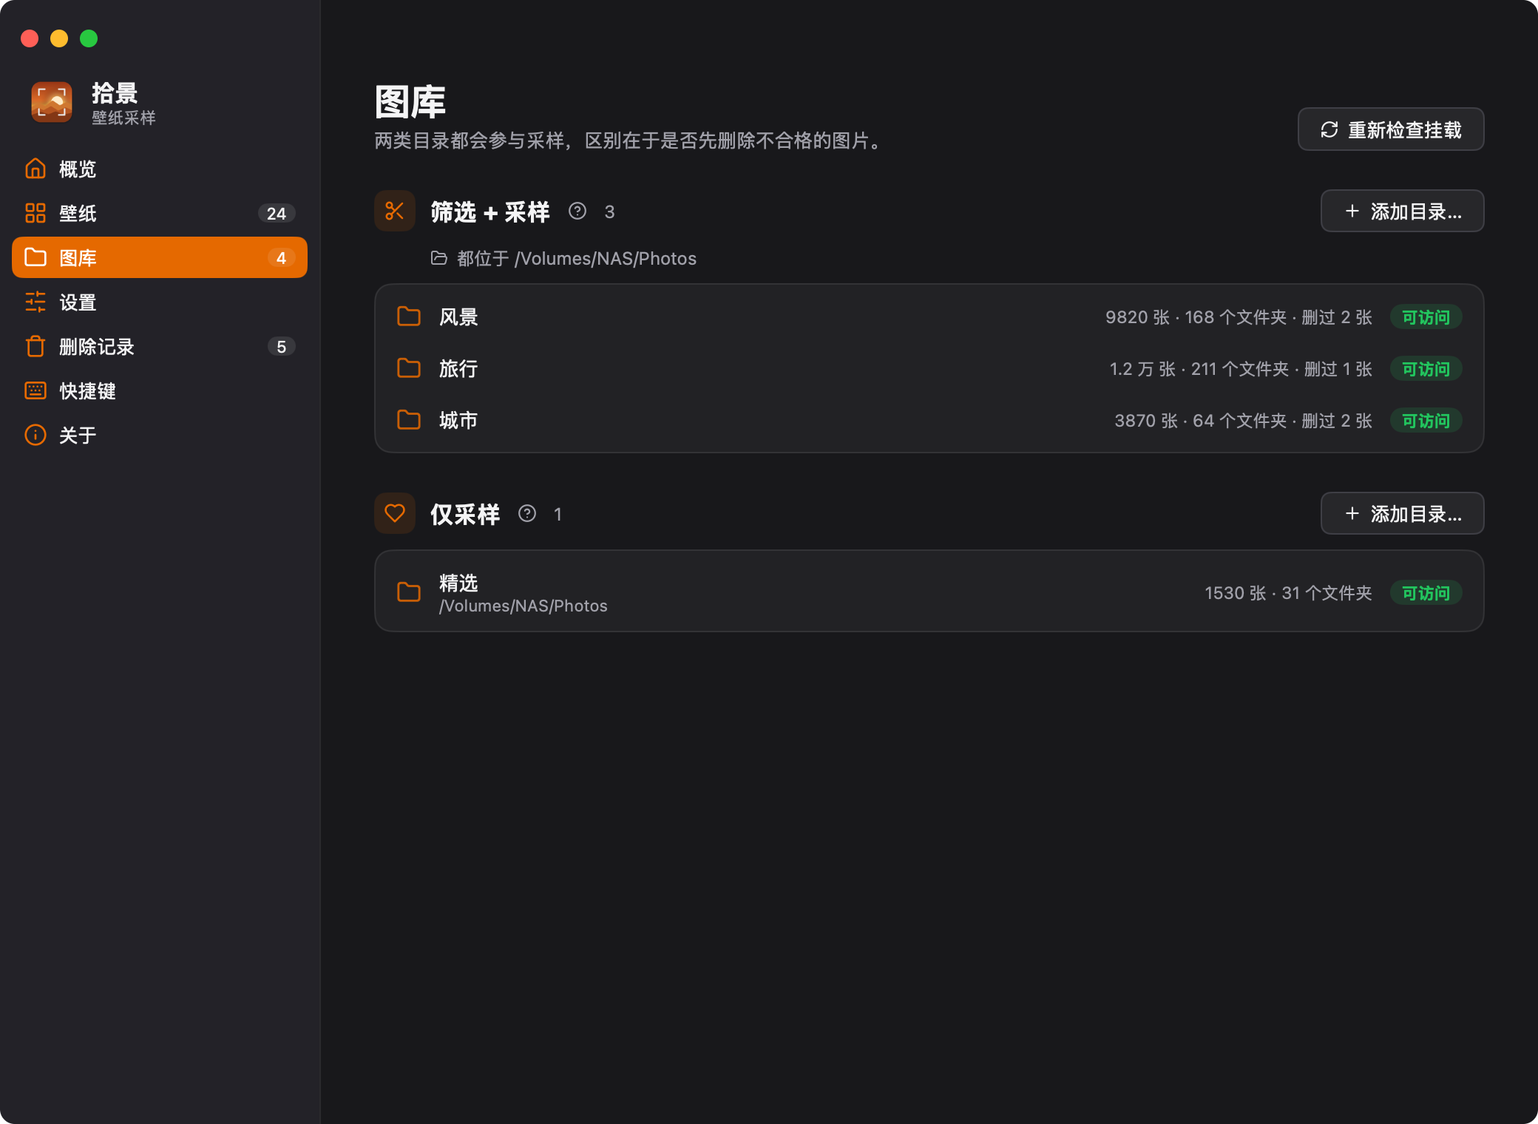
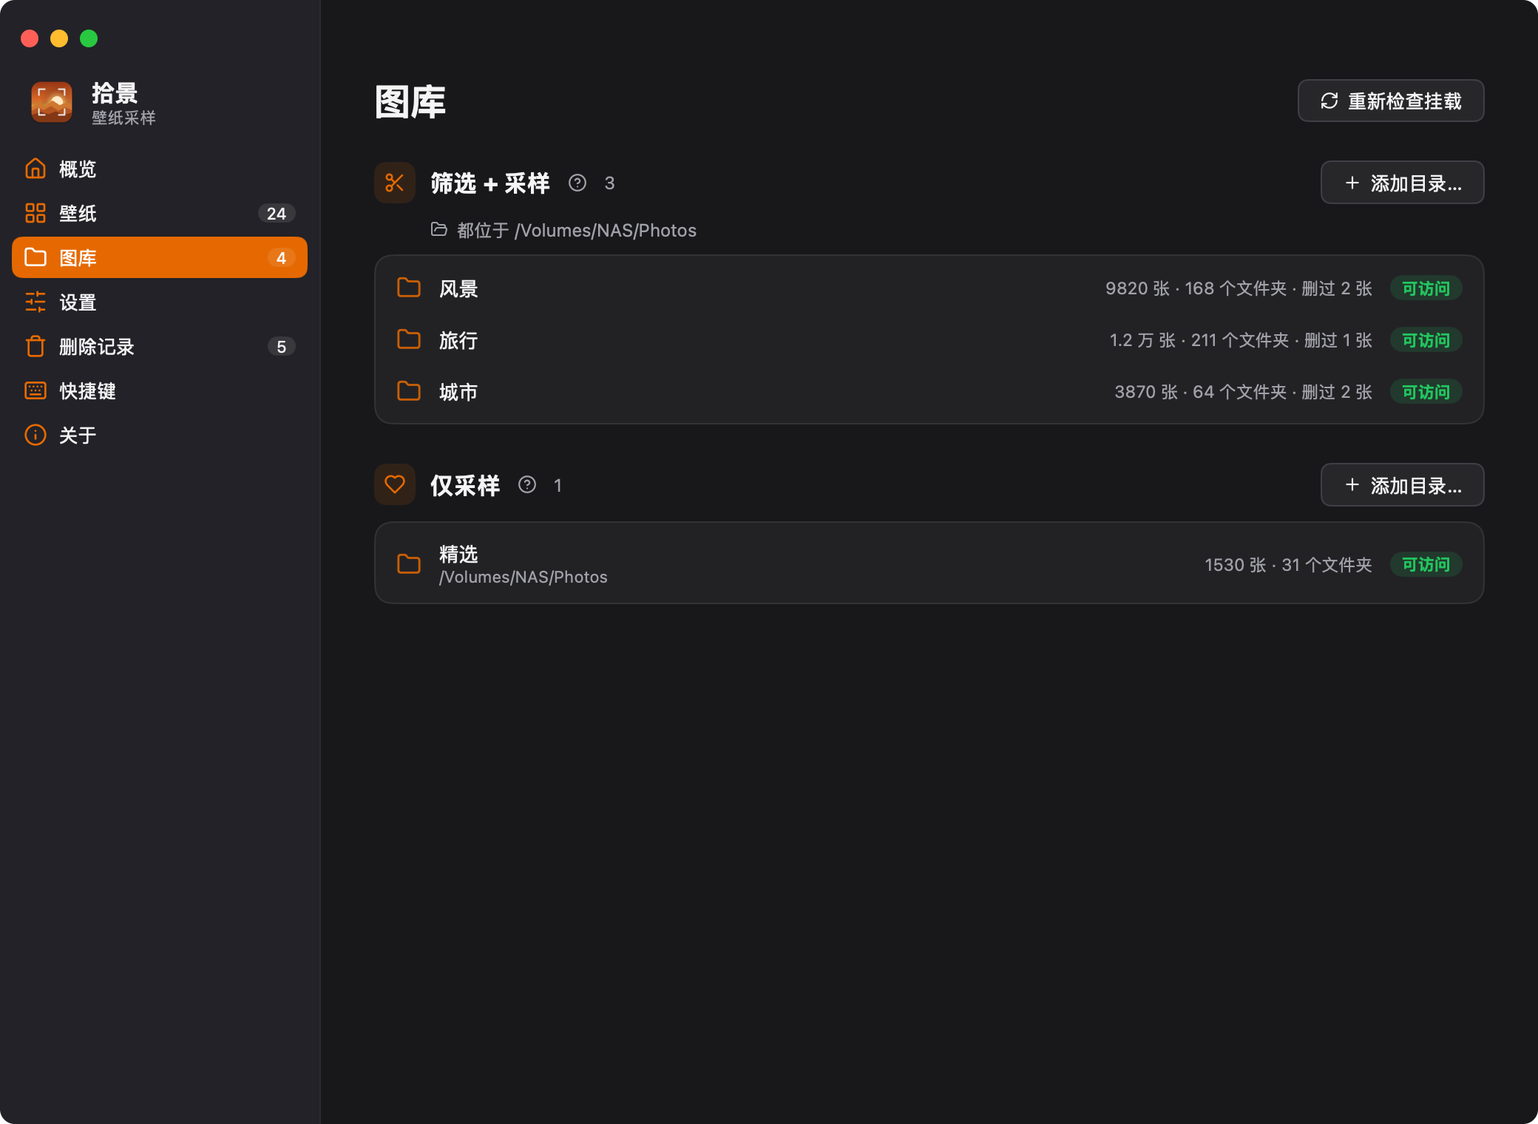
feat(拾景): 说明收得更干净（切页收起气泡、重复说明收进问号）

diff --git a/ios/ShiJing/SettingsSection.swift b/ios/ShiJing/SettingsSection.swift
@@ -32,9 +32,7 @@ struct HelpHeader: View {
     var body: some View {
         HStack(spacing: 6) {
             Text(title)
-            Image(systemName: "questionmark.circle")
-                .font(.footnote)
-                .foregroundStyle(.secondary)
+            HelpIcon()
         }
         // 整行都能点：问号只有十几 pt，单点图标不好按中
         .contentShape(Rectangle())
@@ -43,12 +41,28 @@ struct HelpHeader: View {
         .accessibilityLabel("\(title)，点按查看说明")
         .accessibilityAddTraits(.isButton)
         .accessibilityAction { open = true }
-        .popover(isPresented: $open) {
-            Text(help)
+        .helpPopover(isPresented: $open, text: help)
+    }
+}
+
+/// 小问号图标：跟随分组标题的次要颜色，别用按钮的橙色。
+struct HelpIcon: View {
+    var body: some View {
+        Image(systemName: "questionmark.circle")
+            .font(.footnote)
+            .foregroundStyle(.secondary)
+    }
+}
+
+extension View {
+    /// 说明气泡：宽固定 280，文字按行数撑高（只给 maxWidth 会被截成两行）。
+    /// 不指定 arrowEdge，让系统自己找放得下的方向：长说明从屏幕下方的行打开时往上展开。
+    func helpPopover(isPresented: Binding<Bool>, text: String) -> some View {
+        popover(isPresented: isPresented) {
+            Text(text)
                 .font(.subheadline)
                 .fixedSize(horizontal: false, vertical: true)
                 .padding(16)
-                // 给定宽度，文字才能在气泡里正常换行、按行数撑高（只给 maxWidth 时会被截成两行）
                 .frame(width: 280, alignment: .leading)
                 .presentationCompactAdaptation(.popover)
         }

diff --git a/ios/ShiJing/MacListView.swift b/ios/ShiJing/MacListView.swift
@@ -32,6 +32,10 @@ struct SetupView: View {
         .onAppear {
             discovery.want("setup", true)
             #if DEBUG
+            if ProcessInfo.processInfo.arguments.contains("-demoPair") {
+                flow.pairing = PairTarget(name: "MacBook Pro", serviceName: nil,
+                                          address: MacAddress(host: "192.168.1.20", port: 52819))
+            }
             if !demoScanOpened, ProcessInfo.processInfo.arguments.contains("-demoScan") {
                 demoScanOpened = true
                 // 等局域网搜索结果出来再打开：模拟「已经看到 Mac 列表后再点扫码」的时序
@@ -229,12 +233,11 @@ struct NearbySection: View {
             Button("扫描电脑上的二维码…", systemImage: "qrcode.viewfinder") { flow.scanning = true }
             Button("手动输入地址…", systemImage: "keyboard") { flow.manual = true }
         } header: {
-            Text("附近的 Mac")
+            HelpHeader("附近的 Mac", "电脑上的拾景要打开「设置 › 手机遥控」，手机和电脑连同一个网络。找不到时可以在电脑上点「显示二维码」，用手机扫码配对。")
         } footer: {
+            // 只有搜索出问题时才占一行；上面那段怎么连的说明收进了问号
             if let p = discovery.problem {
                 Text(p)
-            } else {
-                Text("电脑上的拾景要打开「设置 › 手机遥控」，手机和电脑连同一个网络。找不到时可以在电脑上点「显示二维码」，用手机扫码配对。")
             }
         }
     }

diff --git a/ios/ShiJing/PairView.swift b/ios/ShiJing/PairView.swift
@@ -61,10 +61,16 @@ struct PairView: View {
             Form {
                 Section {
                     LabeledContent("Mac", value: target.name)
-                    TextField("设备名称", text: $device)
-                        .disabled(requested)
-                } footer: {
-                    Text("系统不向 App 提供设备名称，默认只有「iPhone」。可以改成自己的名字，会记住。这个名字显示在电脑的「设置 › 手机遥控」里，也可以在电脑上重命名。")
+                }
+                Section {
+                    LabeledContent("名称") {
+                        TextField("名称", text: $device)
+                            .multilineTextAlignment(.trailing)
+                            .labelsHidden()
+                            .disabled(requested)
+                    }
+                } header: {
+                    HelpHeader("这台设备", "系统不向 App 提供设备名称，默认只有「iPhone」。可以改成自己的名字，会记住。这个名字显示在电脑的「设置 › 手机遥控」里，也可以在电脑上重命名。")
                 }
                 if requested {
                     Section {

diff --git a/desktop/keysview.go b/desktop/keysview.go
@@ -18,7 +18,7 @@ func withKey(text, key string) string {
 func (a *app) keysPage(c *ui.Context) {
 	a.recordKey(c)
 	changed := len(a.cfg.Shortcuts) > 0
-	pageHeader(c, "快捷键", "点右边的按键，按下新的组合键即可修改；Esc 取消录制。改完立即生效并自动保存。", func() {
+	pageHeader(c, "快捷键", "点右边的按键，按下新的组合键即可修改。", func() {
 		iconButton(c, iconRotateCcw, "全部恢复默认", false).Disabled(!changed).OnClick(func() {
 			a.cfg.Shortcuts = nil
 			a.recording, a.keyErr = "", ""
@@ -92,7 +92,7 @@ func (a *app) keyRow(c *ui.Context, act keyAction) {
 		recording := a.recording == act.id
 		text := a.keyLabel(act.id)
 		if recording {
-			text = "按下新的快捷键…"
+			text = "按下新的快捷键，Esc 取消"
 		} else if text == "" {
 			text = "未设置"
 		}

diff --git a/desktop/theme.go b/desktop/theme.go
@@ -102,6 +102,13 @@ func panel(c *ui.Context) ui.Element {
 // helpOpen 记着每个说明气泡开着没有（key 是标题）。点问号打开，点外面或按 Esc 关上。
 var helpOpen = map[string]*bool{}
 
+// closeHelpPopovers 收起所有说明气泡：切到别的页面时调一次，回到这一页不会还浮着上次那个。
+func closeHelpPopovers() {
+	for _, open := range helpOpen {
+		*open = false
+	}
+}
+
 // helpDot 是设置项旁边的小问号：点一下弹出说明，指针悬停也会浮出提示，界面上不再铺一段说明文字。
 func helpDot(c *ui.Context, title, desc string) ui.Element {
 	t := c.Theme()

diff --git a/desktop/help_test.go b/desktop/help_test.go
@@ -1,0 +1,22 @@
+package main
+
+import "testing"
+
+// 说明气泡不跟着换页：切到别的页面再回来，不会还浮着上次打开的那一个。
+func TestHelpPopoverClosesOnPageSwitch(t *testing.T) {
+	_, tt := newFakeApp(t)
+	tt.Frame()
+	click(t, tt, "设置")
+	tt.Frame()
+	click(t, tt, "「存放方式」的说明")
+	tt.Frame()
+	open, ok := helpOpen["存放方式"]
+	if !ok || !*open {
+		t.Fatalf("点问号后说明气泡应打开")
+	}
+	click(t, tt, "概览")
+	tt.Frame()
+	if *open {
+		t.Fatalf("切到别的页面后说明气泡应关上")
+	}
+}

diff --git a/desktop/library.go b/desktop/library.go
@@ -10,7 +10,7 @@ import (
 // ── 图库 ──────────────────────────────────────────────────────────────────
 
 func (a *app) libraryPage(c *ui.Context) {
-	pageHeader(c, "图库", "两类目录都会参与采样，区别在于是否先删除不合格的图片。", func() {
+	pageHeader(c, "图库", "", func() {
 		iconButton(c, iconRefresh, "重新检查挂载", false).OnClick(a.checkMounts)
 	})
 	a.columns(c, 26, func() {

diff --git a/desktop/app.go b/desktop/app.go
@@ -126,6 +126,7 @@ type app struct {
 	preset  int // resPresets 的下标，len(resPresets) 表示自定义
 
 	page      string
+	prevPage  string // 上一帧的页面：切页时把开着的说明气泡收起来
 	filter    dirPanel
 	sample    dirPanel
 	mounts    map[string]mountState

diff --git a/desktop/view.go b/desktop/view.go
@@ -30,6 +30,10 @@ func (a *app) view(c *ui.Context) {
 		c.Toast(a.toast)
 		a.toast = ""
 	}
+	if a.page != a.prevPage {
+		closeHelpPopovers() // 说明气泡不跟着换页
+		a.prevPage = a.page
+	}
 	t := applyTheme(c)
 	vibrant := c.Vibrancy()
 	if vibrant {

diff --git a/CLAUDE.md b/CLAUDE.md
@@ -33,7 +33,7 @@
 
 ### 4. 拾景（`desktop/`）特有的注意点
 - 依赖 MyGo v0.8.x（0.x 阶段，小版本升级可能改 API）。升级前读 `desktop/.agents/skills/mygo-maintenance/SKILL.md`，用 `go tool mygo migrate-ui .` 预览迁移；改完跑 `go tool mygo vet .` 和 `CGO_ENABLED=0 go test ./...`。
-- 功能说明收进问号（v0.4.6 起，两端都是）：设置项、分组那句「功能说明」不再铺在界面上，改成标题旁边的小问号：点一下弹出说明气泡（点外面或 Esc 关上，状态记在 `helpOpen`），指针悬停也会浮出提示（桌面 `theme.go` 的 `helpDot`；`settingRow` / `wideRow` / `group` 的 footnote 都走它）。界面上只留当下状态的小字（体积估算、轮换进度、下次运行、端口、config 路径），用 `settingRowNote`；需要立刻看见的提示（快捷键冲突、会删原图）用 `settingRowNoteColor` 显示成彩色小字，别收进问号。iOS 同理：`SettingsSection.swift` 的 `HelpHeader`，分组标题连「?」整行都能点、弹出 popover（宽固定 280 才能正常换行，不指定 arrowEdge，系统自己找放得下的方向；只有图标时十几 pt 不好按中），Section footer 只留给动态提醒。
+- 功能说明收进问号（v0.4.6 起，两端都是）：设置项、分组那句「功能说明」不再铺在界面上，改成标题旁边的小问号：点一下弹出说明气泡（点外面或 Esc 关上，状态记在 `helpOpen`），指针悬停也会浮出提示（桌面 `theme.go` 的 `helpDot`；`settingRow` / `wideRow` / `group` 的 footnote 都走它）。界面上只留当下状态的小字（体积估算、轮换进度、下次运行、端口、config 路径），用 `settingRowNote`；需要立刻看见的提示（快捷键冲突、会删原图）用 `settingRowNoteColor` 显示成彩色小字，别收进问号。iOS 同理：`SettingsSection.swift` 的 `HelpHeader`，分组标题连「?」整行都能点、弹出 popover（宽固定 280 才能正常换行，不指定 arrowEdge，系统自己找放得下的方向；只有图标时十几 pt 不好按中），Section footer 只留给动态提醒。气泡本身是 `helpPopover(isPresented:text:)`，别处要放说明就挂它。配对页的设备名称说明（`PairView` 的「这台设备 ?」）、「附近的 Mac」都收进了问号，Section footer 里不再铺长句。桌面切页时 `view.go` 会调 `closeHelpPopovers()`，回到页面不会还浮着上次那个（`help_test.go`）。
 - 配置、增量状态、删除日志、窗口位置都在 `~/Library/Application Support/拾景/`，不是仓库目录（`.app` 位置不固定，不能像 Python 版那样相对脚本目录找文件）。状态文件故意不和 Python 版共享。改名前叫「壁纸工具」，`main.go` 启动时会用 `core.MigrateDataDir` 把旧目录搬过来（新目录已存在就不动）。以后再改 `appName` 也要照此迁移，否则用户配置会"丢"。
 - 窗口用 `TitleBarHiddenInset` + `VibrancySidebar`：侧边栏顶部和内容区顶部各留了一条 `DragWindow()` 的拖拽区，侧边栏背景透明才能透出毛玻璃（`c.Vibrancy()` 为 false 时退回纯色）。配色和通用组件（`panel`/`group`/`settingRow`/`sceneArt` 插画）集中在 `theme.go`。强调色是橙色（用户定的，v0.3.11 起：浅色 #E45C00、深色 #E56900），改的话 iOS 的 `Assets.xcassets/AccentColor` 要一起改；应用图标（`desktop/resources/icon.png` 和 iOS 的 `AppIcon.png`）v0.3.12 起也是橙色日落，是用 `desktop/scripts/recolor_icon.py` 从原来的紫色图标换算的；`make_icon.py` 是更早的画法，和现在的图标对不上。横幅插画（`sceneArt`）的颜色取自图标、用同一套换算。
 - 概览页缩略图由 `thumbs.go` 的 `scanWallpapers` 在后台解码缩小，`Bitmap` 回主线程再建；只读本地 `dest_dir`，运行结束 `wallsGen++` 触发重读。缩略图网格的行列数由 `stripLayout` 按**上一帧**量到的尺寸算（网格宽度定列数，滚动区高度 − 页面其余部分高度定行数，后者与行数无关所以不会来回跳），算出来变了就 `c.AnimationFrame()` 再排一帧；概览页不受 `contentMax` 限制、铺满窗口宽度。先解码 `initialThumbs` 张，放得下更多时 `loadMoreThumbs` 接着解码网格前面还没解码的（`decodeWorkers` 限并发，原图很大）。壁纸列表只有一份 `walls.all`（`shuffleStable` 按文件名哈希排的顺序：看着随机，但不换一批时每次打开都一样，方便逐张筛——用户要求，别改回 `rand.Shuffle`；横幅图也在内），缩略图按路径存在 `walls.thumbs`（值为 nil 表示读不了），网格是 `walls.grid()`（去掉横幅图和读不了的）——别再加平行的切片，移出 / 撤销只需要改 `all`。移出 / 删除的正好是横幅那张时，`dropWall` 会清掉 `hero` / `heroPath` 并推进 `wallsGen` 让后台重读一遍挑新的横幅图（手机遥控删的也走这条路径，只改 `all` 的话横幅会一直显示那张已经不在文件夹里的图）。网格最后一格「+N」在预览里从第一张没显示的开始翻；Finder 里打开用横幅上的「打开」。`app.scanWallpapers` 是注入的，测试里设成 nil，界面测试不读真实目录。
@@ -163,7 +163,7 @@
   - **通知点开直达**：换完的通知带 `userInfo["target"] = "overview"`、签名到期带 `"about"`；`Notifications` 的 delegate 实现 `didReceive` 写进 `NotificationRouter.shared.tab`（`@Observable`，`RootView` 用 `onChange(initial: true)` 消费后清空——通知回调不保证 RootView 已经显示）；`"about"` 还会把 UserDefaults 的 `settingsGroup` 设成 `about`，设置页打开时就是第三栏。delegate 方法不是主线程隔离的，得 `await MainActor.run` 再改。
   - **扫码配对**：桌面上「设置 › 手机遥控 › 扫码配对 › 显示二维码」（`openQRPair` / `qrPairModal`），二维码内容是 `shijing://pair?h=<IP>&p=<端口>&c=<配对码>`（`github.com/skip2/go-qrcode`，`ui.NewBitmap` 给 `ui.Image`）。`remoteServer.startPair(device, qr)` 统一建配对请求，`pairRequest.qr` 的请求**不弹**「请求遥控拾景」那个确认框（电脑上点「显示二维码」就是确认）；`handlePairFinish` 的 body 多了可选 `device`，扫码时手机报上自己的名字。配对成功记 `pairedCode`，`takePaired` 让二维码弹层自己收起；关掉弹层会取消这次配对（只在当前请求还是那个二维码时才取消）。
   - 手机端：`ios/ShiJing/QRScan.swift`（AVFoundation 取景扫二维码，扫到一次就停，失败可以「重新扫描」重建取景），配对地址和码解析在 `QRScanView.parse`；`APIClient.pairFinish(code:device:)`。相机权限文案在 `project.yml` 的 `INFOPLIST_KEY_NSCameraUsageDescription`。入口在 `NearbySection`（首次配对页和「添加其他 Mac」都有）。
-  - **弹层不能挂在会变化的 List 行 / Section 上**（v0.3.124 修）：扫码页一开始挂在 `NearbySection` 的 Section 上，结果「扫码页有时候打开后自己退出」。原因：点开扫码页时 `SetupView.onDisappear` 触发 `discovery.want(…, false)` → `Discovery.stop()` 清空 `found`，附近 Mac 的行一变，挂在 Section 上的 `fullScreenCover` 跟着被重建、自己关掉；已经找到 Mac 之后再点扫码才复现（第一次就打开时 found 本来就是空的，所以是「有时候」）。现在三个弹层（配对、手动输入、扫码）的状态放在 `NearbyFlow`，用 `.nearbyPresenters(store:flow:)` 挂在 `SetupView` / `AddMacView` 这种稳定容器上；`Discovery` 的搜索结果没变（`found != list`）时也不刷新界面。`-demoScan` 故意等 4 秒再打开，用来复现「先看到 Mac 列表再点扫码」的时序（挂在 Section 的旧写法下会看到它自己关掉）。
+  - **弹层不能挂在会变化的 List 行 / Section 上**（v0.3.124 修）：扫码页一开始挂在 `NearbySection` 的 Section 上，结果「扫码页有时候打开后自己退出」。原因：点开扫码页时 `SetupView.onDisappear` 触发 `discovery.want(…, false)` → `Discovery.stop()` 清空 `found`，附近 Mac 的行一变，挂在 Section 上的 `fullScreenCover` 跟着被重建、自己关掉；已经找到 Mac 之后再点扫码才复现（第一次就打开时 found 本来就是空的，所以是「有时候」）。现在三个弹层（配对、手动输入、扫码）的状态放在 `NearbyFlow`，用 `.nearbyPresenters(store:flow:)` 挂在 `SetupView` / `AddMacView` 这种稳定容器上；`Discovery` 的搜索结果没变（`found != list`）时也不刷新界面。`-demoScan` 故意等 4 秒再打开，用来复现「先看到 Mac 列表再点扫码」的时序（挂在 Section 的旧写法下会看到它自己关掉）；`-demoPair` 直接打开配对页（看设备名称那行和「这台设备 ?」的排版）。
   - 截图用的启动参数：`-demoAll`（全部壁纸）、`-demoSelect`（已选 3 张的选择模式）、`-demoPending`（排队中的删除原图）。
 - 第 5 期（v0.3.129）：手机上补了桌面设置里常用的几项。`remoteSettings` 多了 `balance_first`、`incremental`、`mode`（copy / symlink）、`min_width` / `min_height` + `min_presets`、`archive_enabled` / `archive_subdir` / `archive_dir`，都走 `POST /api/settings`；改分辨率时桌面会把 `a.preset` 对上预设或「自定义」（不然电脑设置页还停在旧的预设）。状态快照多了 `dirs`（图库目录只读：类型、挂载状态、上次统计、删过几张）和 `pending_items`（电脑上排队的删除原图明细，带完整路径用来取消）；`POST /api/mounts/check` 让电脑重新检查挂载（结果随快照推），`POST /api/pending/cancel`（`{"path": ...}` 或 `{"all": true}`）逐条 / 全部取消排队删除，日志里记一行 📱。iOS 设置页新增「输出、画质要求、归档、待删除」分组，「图库」只占一行（「图库目录 N 个」），点开是二级页 `LibraryDirsView`（目录列表 + 挂载状态 + 重新检查挂载），目录多时不把设置页撑长；旧版桌面端不推这些字段时，这几组整组不显示。图库目录只在快照里：在线时随 SSE 更新，离线时是 RemoteState 一起存进 `OfflineStore` 的上次同步副本（二级页顶部会提示「下面的是上次同步的信息」），「重新检查挂载」离线时禁用。**设置页分三栏**（v0.3.131 起分两类，v0.3.133 加了关于）：导航栏中间一个分段控件，「电脑上的拾景」（输出、采样、画质要求、归档、筛选、自动换、系统、图库目录、待删除）、「这台 iPhone / 这台 iPad」（`ThisDevice.label` 按 `UIDevice.current.localizedModel` 取，平板上不写成「手机」：待补操作入口、离线缓存）和「关于」（两边版本、签名到期）。选过哪一类存在 UserDefaults 的 `settingsGroup`（`@AppStorage`），下次打开还是那一类；三栏放在 `.tabViewStyle(.page(indexDisplayMode: .never))` 的 TabView 里，和分段控件共用一个 selection，所以左右滑也能切（v0.3.134）。切换控件 v0.3.154 起放在导航栏下面一条整宽的 `.safeAreaInset(edge: .top)` 栏里（内容最宽 680、居中）：以前塞在 `.toolbar(placement: .principal)` 里，导航栏中间只剩两百多 pt（右边还有连接徽标），外屏这种窄屏上三个中文标签放不下、会被挤成「电脑上的…」；inline 标题用 safeAreaInset 不会被压掉（当年踩的是大标题）。TabView 里每页是自己的 List，调试用的单页 demo 分支绕过 pager、也不显示切换栏。**设置页的宽度策略**（v0.3.155 起，v0.3.161 改成单栏）：「电脑上的拾景」永远一个列表（排序见下面「列表收窄」那条），内容最宽 680 居中；「这台手机」和「关于」同样单栏。两侧都靠 `contentWidthCap` 收窄，别按宽度分支成两栏（原因见下面那两条）。`-demoSettings` 能看排版、`-demoWidth 951 -demoHeight 560` 按 Duo 内屏的尺寸排（模拟器里没法展开，借 iPad 模拟器按内屏的 951×669 排）、`-demoPhoneGroup` 直接切到「这台手机」那一栏、`-demoMacGroup` 直接切到「电脑上的拾景」，「-demoPending」同时塞了 `pending_items`；`-demoSettings -demoLibrary` 只摆「图库入口 / 待删除」两组（设置页太长，模拟器里滚不到下面），`-demoLibraryPage` 直接打开图库目录二级页；模拟器里想切到另一类，`xcrun simctl spawn booted defaults write com.love1017best.shijing.ios settingsGroup phone`（再启动）。
 - iPhone Duo 合上时外屏 466×678 pt，系统报的是 **regular** 尺寸类，标签栏因此是 iPad 那种右侧竖排的浮动栏、占掉右边 84pt 安全区（系统在主屏幕上也把 Dock 竖着放在右边，一样；系统自己的「设置」「照片」在外屏上也是这么排的）。app 这边改不动，这些都试过：window 的 `traitOverrides.horizontalSizeClass = .compact` 会让 App 直接崩（`Can't return value for trait HorizontalSizeClass that has no override`）；`.tabViewStyle(.tabBarOnly)`、`.tabViewStyle(.sidebarAdaptable)`、iOS 27 的 `.defaultTabBarPlacement(.tabBar)` 都不改变位置；自己画一条底部标签栏的话，SwiftUI 报的尺寸类是 compact（和 UIKit 的 regular 不一致），也没法只在外屏上换掉系统标签栏。探针读 `\.tabBarPlacement` 时系统报的是 `bottomBar`，但画出来仍在右边——别拿这个环境值当判断依据。所以别加 `ignoresSafeArea`（内容会塞到浮动标签栏底下），就按系统给的内容区排。
